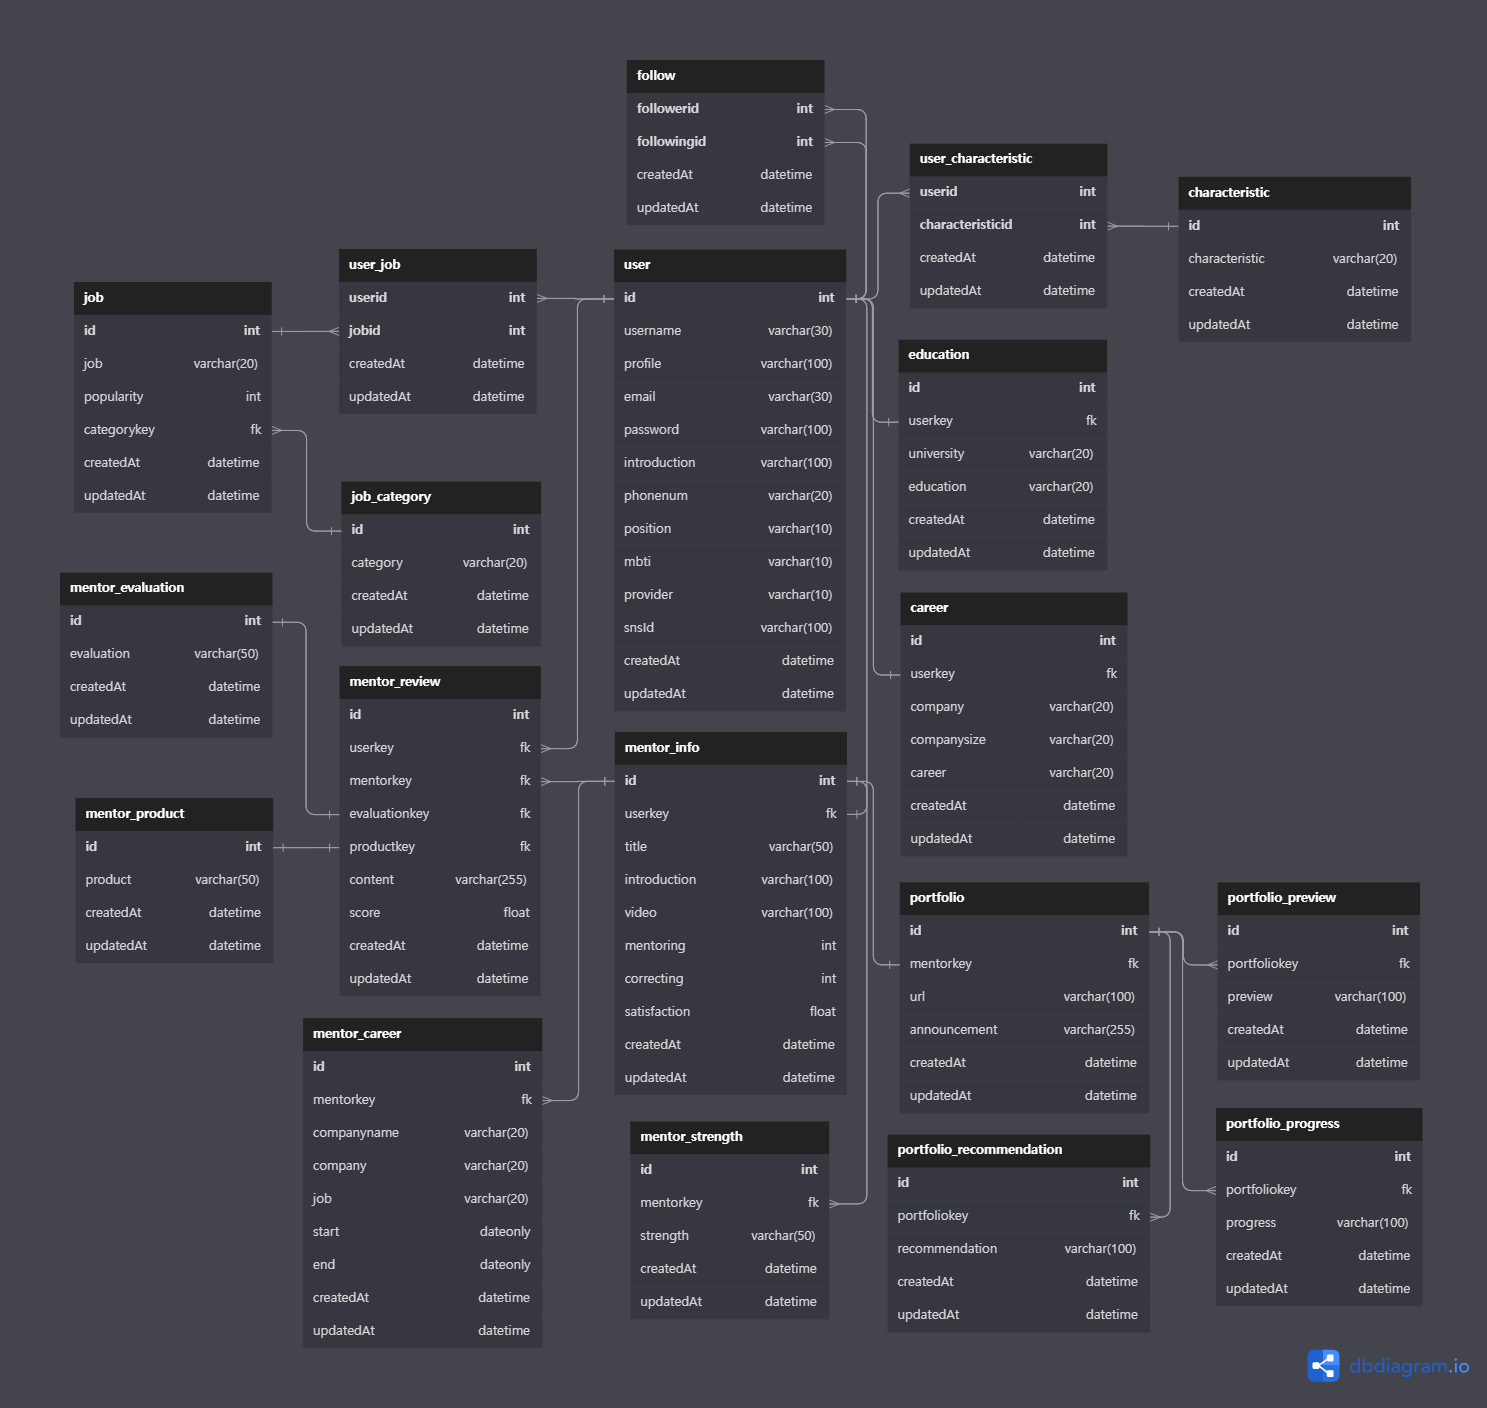
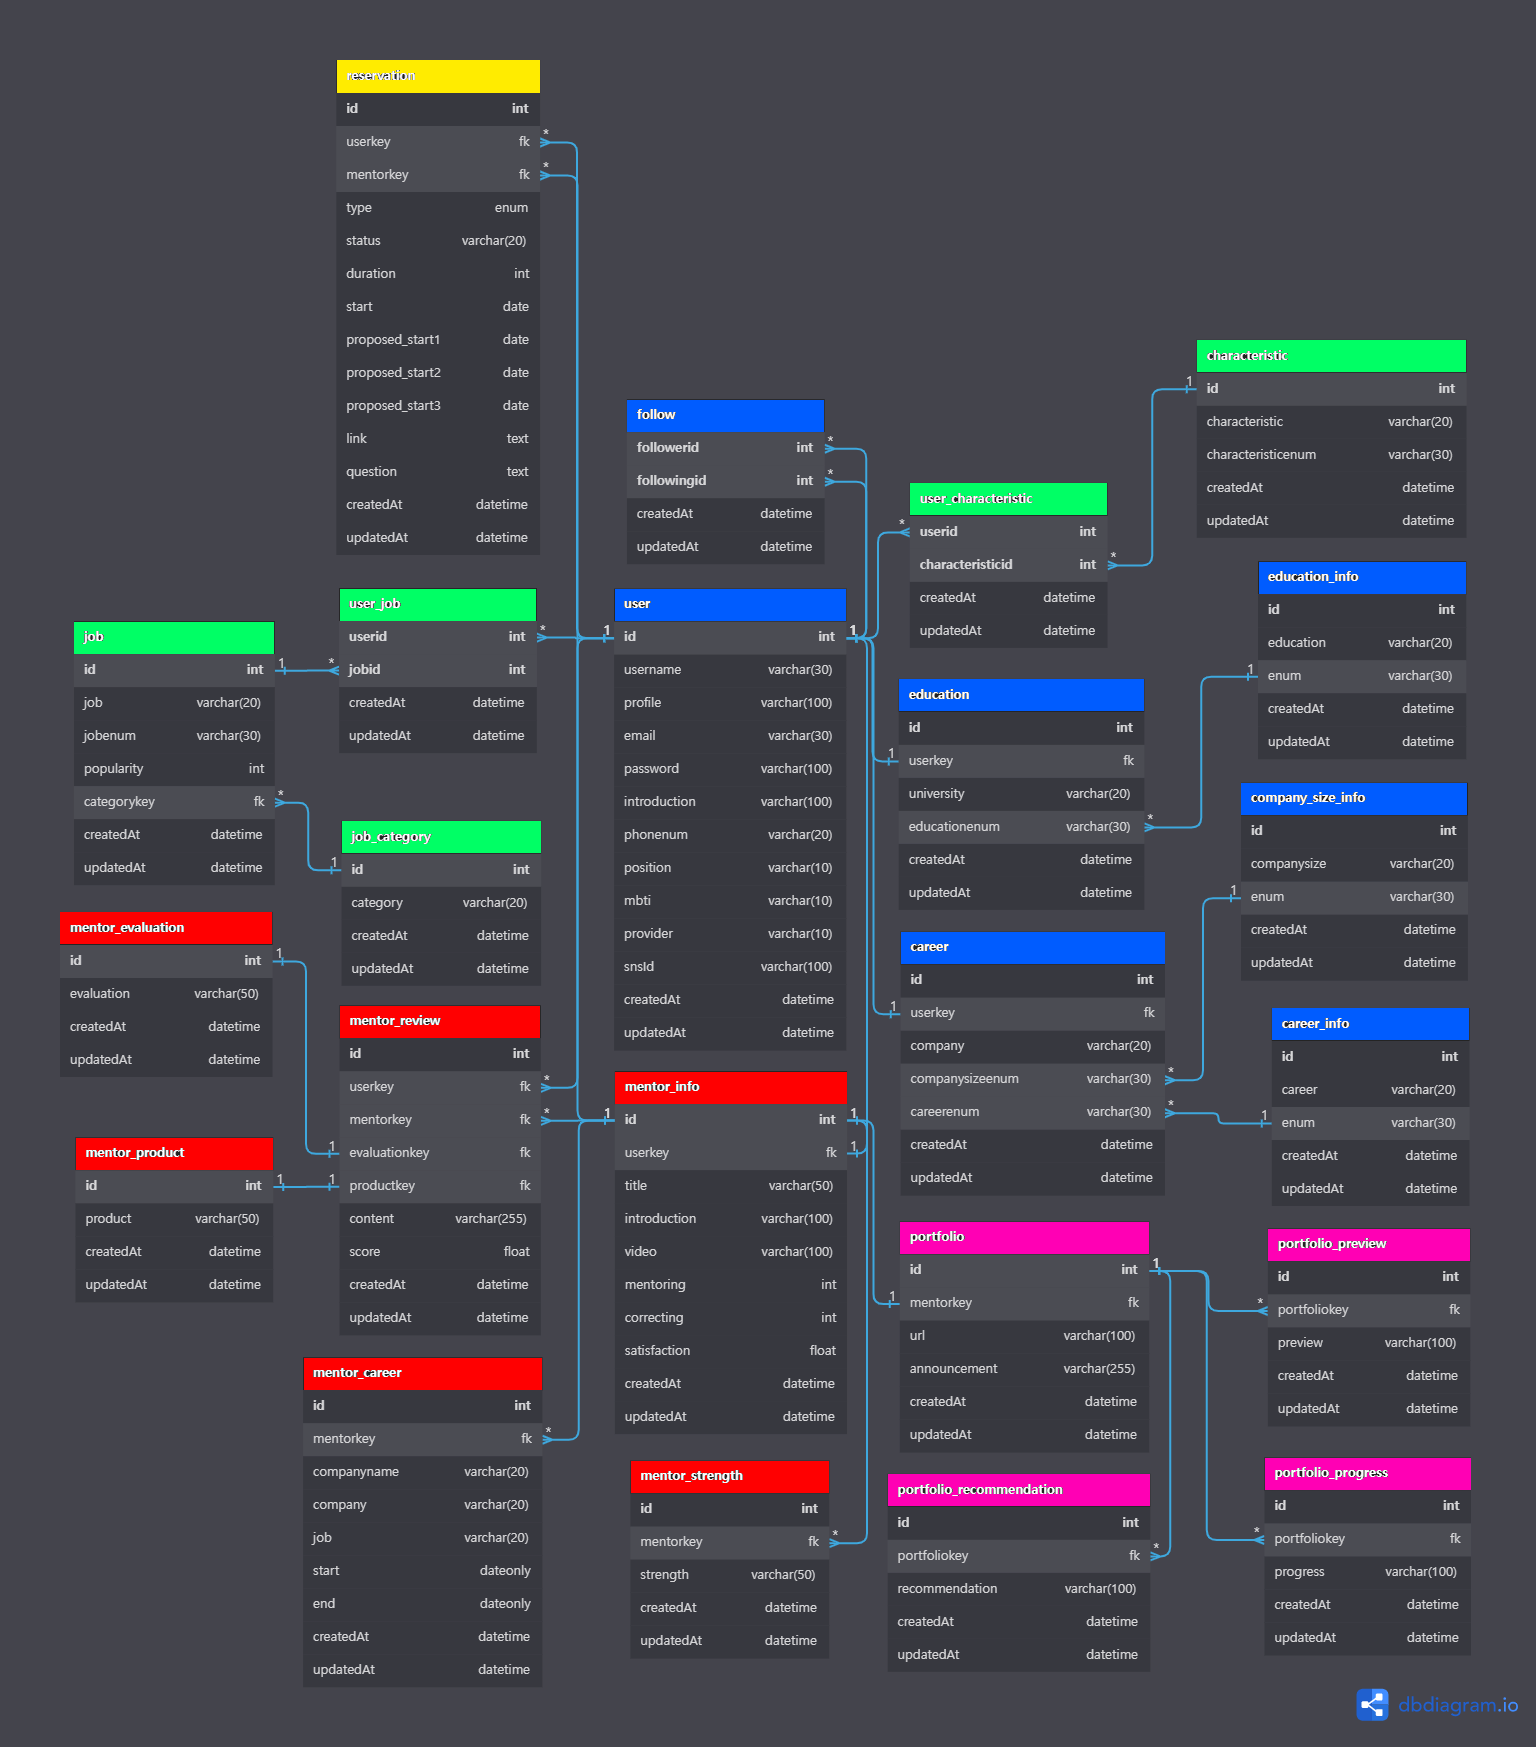
README: 교체 & 추가

diff --git a/README.md b/README.md
@@ -20,11 +20,14 @@
 3. 멘토 찾기 & 검색 API (키워드 & 필터)
 4. 멘토 상세페이지 관련 데이터 GET API
 5. 멘토 리뷰들 관련 데이터 GET API
+6. 멘토 예약 신청 API
 
 ## 📝 ToDo
 
 1. 멘토 전환 API
-2. 멘토 예약 기능
+2. 멘토 예약 확정 API
+3. 예약 목록 정보 GET API
+4. 각 예약 과정 중 단계별 앱 push 기능
 
 ## ⛓ Database ERD
 ![ERD](./readme/erd.png)
@@ -33,7 +36,7 @@
 > Click the icons!
 
 #### 협업 워크스페이션: [![Notion](https://img.shields.io/badge/Notion-000000.svg?style=flat&logo=Notion&logoColor=white)](https://quilt-tanker-16d.notion.site/RE-SPEC-1c8f389a7b924283a8c5401e07ff334a)
-#### API 명세서: [![Swagger](https://img.shields.io/badge/Swagger-85EA2D.svg?style=flat&logo=Swagger&logoColor=white)](http://13.125.159.223:3000/api-docs/)
+#### API 명세서: [![Swagger](https://img.shields.io/badge/Swagger-85EA2D.svg?style=flat&logo=Swagger&logoColor=white)](http://3.37.54.173:3000/api-docs/)
 
 ## 🛠 Dependency Module
 
@@ -46,7 +49,9 @@
     "cors": "^2.8.5",
     "express": "^4.18.2",
     "express-session": "^1.17.3",
-    "express-validator": "^6.14.2",
+    "express-validator": "^6.15.0",
+    "firebase": "^9.18.0",
+    "firebase-admin": "^11.5.0",
     "morgan": "^1.10.0",
     "multer": "^1.4.5-lts.1",
     "multer-s3": "^2.10.0",
